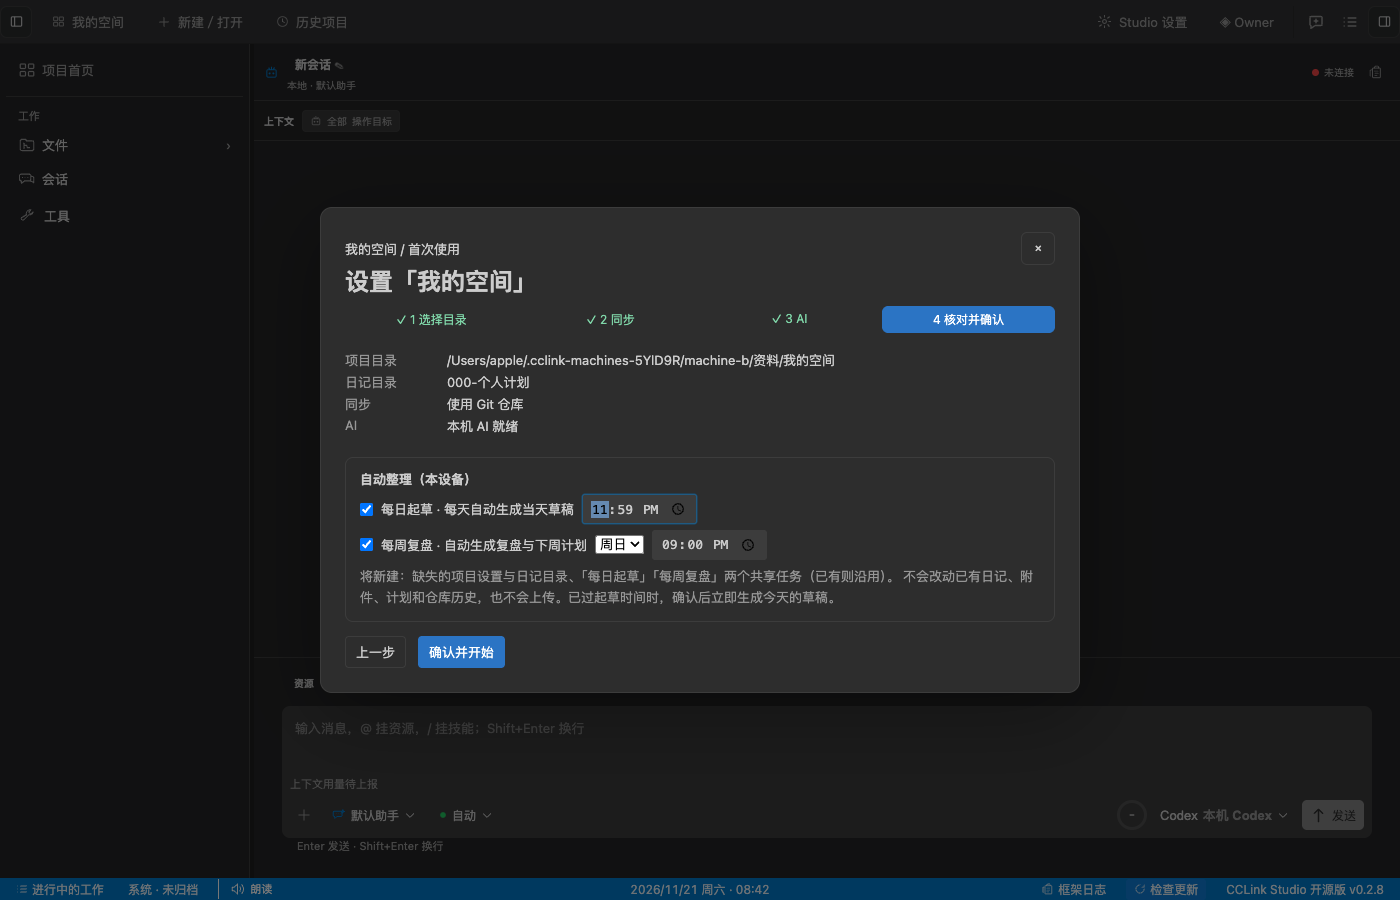
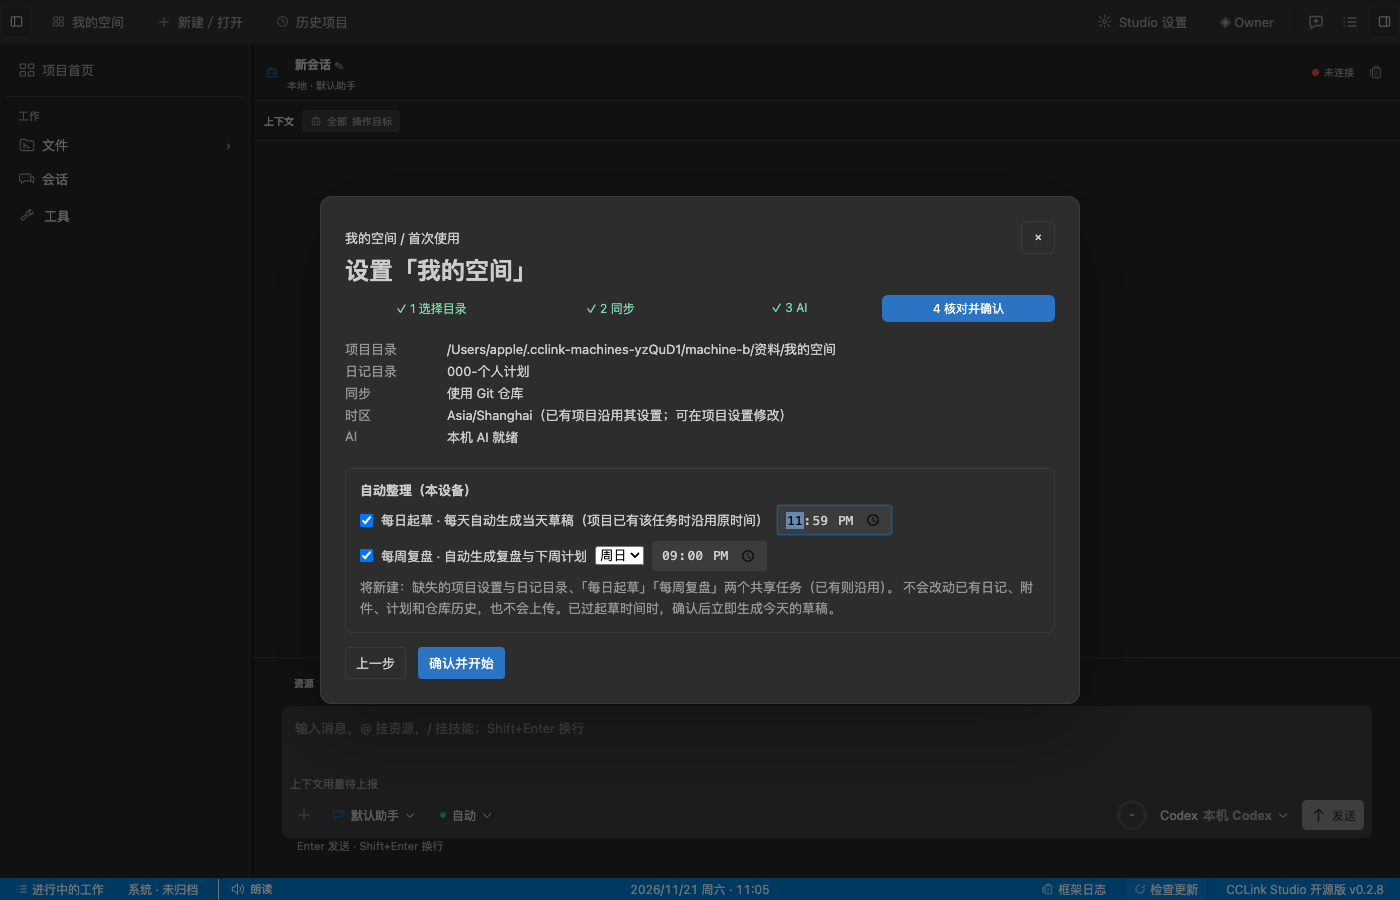
我的空间第二版自查：向导完成前不关闭、SSH 同步隔离、改动快照完整性等修复

diff --git a/src/renderer/src/features/workspace-open/PersonalDiaryHome.tsx b/src/renderer/src/features/workspace-open/PersonalDiaryHome.tsx
@@ -112,6 +112,16 @@ export function PersonalDiaryHome(): React.ReactElement {
   const [revision, setRevision] = useState(0)
   const [clock, setClock] = useState(() => Date.now())
   const [month, setMonth] = useState('')
+  const [aiProblem, setAiProblem] = useState('')
+  useEffect(() => {
+    void window.cclinkStudio.agent
+      .getCapabilities()
+      .then((items) => {
+        const backend = items.find((item) => item.name === 'agent-backend')
+        setAiProblem(backend && backend.state !== 'ready' ? backend.reason || backend.state : '')
+      })
+      .catch(() => {})
+  }, [revision])
   useEffect(() => {
     const timer = window.setInterval(() => setClock(Date.now()), 60000)
     return () => window.clearInterval(timer)
@@ -122,6 +132,8 @@ export function PersonalDiaryHome(): React.ReactElement {
   useEffect(() => {
     let alive = true
     setBusy(true)
+    // Wait for this project's settings: a missing or stale snapshot must not look "unset".
+    if (ownerPath && config?.workspacePath !== ownerPath) return
     void (async () => {
       const [items, snapshot] = await Promise.all([
         window.cclinkStudio.workspaceState.listLocalWorkspaces(),
@@ -166,7 +178,7 @@ export function PersonalDiaryHome(): React.ReactElement {
     return () => {
       alive = false
     }
-  }, [ownerPath, config?.revision])
+  }, [ownerPath, config?.revision, config?.workspacePath])
   useEffect(() => {
     if (!source) return
     let alive = true
@@ -277,7 +289,10 @@ export function PersonalDiaryHome(): React.ReactElement {
     dayKey(daily.latestRun.scheduledFor ?? daily.latestRun.createdAt) === todayKey
       ? daily.latestRun
       : undefined
-  const weeklyPlans = files.plans.filter((file) => file.path.includes('/周计划/'))
+  // Mixed naming (第47周.md, 2026-11-23-周复盘.md): newest by modification time.
+  const weeklyPlans = files.plans
+    .filter((file) => file.path.includes('/周计划/'))
+    .sort((a, b) => b.modifiedAt - a.modifiedAt)
   const longTermPlans = files.plans.filter(
     (file) => source && file.path === `${source.workspacePath}/${source.directory}/${file.name}`,
   )
@@ -410,6 +425,14 @@ export function PersonalDiaryHome(): React.ReactElement {
               {file.name}
             </button>
           ))}
+        </div>
+      )}
+      {!today.length && source && aiProblem && (
+        <div className="diary-card" role="alert">
+          <b>本机 AI 不可用，今天的草稿无法自动生成</b>
+          <p className="muted">
+            {aiProblem}。请在 Studio 设置的 Agent 中修复；修复后会按时起草，也可现在起草。
+          </p>
         </div>
       )}
       {!today.length && source && (

diff --git a/src/main/workspace/diary-change-tracker.ts b/src/main/workspace/diary-change-tracker.ts
@@ -10,9 +10,10 @@ import { readWorkspaceSettings } from './workspace-settings-files'
 
 const MAX_FILES = 5000
 const MAX_FILE_BYTES = 512 * 1024
+const MAX_TOTAL_BYTES = 32 * 1024 * 1024
 const MAX_REPORTS = 30
 
-type Snapshot = Map<string, { hash: string; content: string }>
+type Snapshot = Map<string, { hash: string; content: string }> & { complete?: boolean }
 interface StoredReport extends DiaryChangeReport {
   /** Exact contents needed to undo; never sent to the renderer. */
   restore: Array<{ path: string; before: string | null; afterHash: string | null }>
@@ -55,6 +56,8 @@ export class DiaryChangeTracker {
     if (!run) return null
     this.active.delete(input.runId)
     const after = await snapshot(run.workspacePath)
+    // A bounded snapshot cannot tell "deleted" from "not scanned": report nothing then.
+    if (!run.before.complete || !after.complete) return null
     const files: DiaryChangeReport['files'] = []
     const restore: StoredReport['restore'] = []
     for (const path of new Set([...run.before.keys(), ...after.keys()])) {
@@ -155,15 +158,25 @@ function publicReport(report: StoredReport): DiaryChangeReport {
 
 async function snapshot(root: string): Promise<Snapshot> {
   const result: Snapshot = new Map()
+  result.complete = true
+  let total = 0
   const walk = async (dir: string): Promise<void> => {
-    if (result.size >= MAX_FILES) return
+    if (result.size >= MAX_FILES || total > MAX_TOTAL_BYTES) {
+      result.complete = false
+      return
+    }
     for (const entry of await readdir(dir, { withFileTypes: true }).catch(() => [])) {
       if (entry.name.startsWith('.') || entry.name === 'node_modules') continue
       const path = join(dir, entry.name)
       if (entry.isDirectory()) await walk(path)
       else if (entry.isFile() && entry.name.toLowerCase().endsWith('.md')) {
         const info = await lstat(path).catch(() => null)
-        if (!info || info.size > MAX_FILE_BYTES) continue
+        if (!info) continue
+        if (info.size > MAX_FILE_BYTES) {
+          result.complete = false
+          continue
+        }
+        total += info.size
         const content = await readFile(path, 'utf8').catch(() => null)
         if (content === null) continue
         result.set(relative(root, path).split(sep).join('/'), { hash: hash(content), content })

diff --git a/src/renderer/src/features/workspace-open/DiarySetupWizard.tsx b/src/renderer/src/features/workspace-open/DiarySetupWizard.tsx
@@ -132,7 +132,8 @@ export function DiarySetupWizard({
         fixed = await ws.confirmDiaryRoot(owner, target)
       } else
         fixed = await ws.initializePersonalSpace(mode === 'default' && !preview ? null : preview)
-      useFixedSpacesStore.setState({ spaces: fixed, firstUse: false })
+      // Stay open until tasks and today's draft are set up, so any failure is shown here.
+      useFixedSpacesStore.setState({ spaces: fixed })
       const root = fixed.personal!.workspacePath
       const settings = (await ws.getSettings(root)).settings
       const directory = settings.diary?.directory ?? preview?.directory ?? '个人计划'
@@ -321,6 +322,8 @@ export function DiarySetupWizard({
             <dd>{preview?.directory ?? '个人计划'}</dd>
             <dt>同步</dt>
             <dd>{sync === 'later' ? '稍后连接' : '使用 Git 仓库'}</dd>
+            <dt>时区</dt>
+            <dd>{defaultDiaryTimezone}（已有项目沿用其设置；可在项目设置修改）</dd>
             <dt>AI</dt>
             <dd>{ai?.state === 'ready' ? '本机 AI 就绪' : '—'}</dd>
           </dl>
@@ -334,7 +337,7 @@ export function DiarySetupWizard({
                   setChoice({ ...choice, daily: { ...choice.daily, enable: e.target.checked } })
                 }
               />
-              每日起草 · 每天自动生成当天草稿
+              每日起草 · 每天自动生成当天草稿（项目已有该任务时沿用原时间）
               <input
                 aria-label="每日起草时间"
                 type="time"

diff --git a/src/renderer/src/bootstrap/use-workspace-bootstrap.ts b/src/renderer/src/bootstrap/use-workspace-bootstrap.ts
@@ -101,8 +101,7 @@ export function useWorkspaceBootstrap(): boolean {
       await window.cclinkStudio.workspaceState
         .ensurePersonalSpace()
         .then((spaces) => {
-          // A new user starts at first use; nothing is created until confirmation.
-          useFixedSpacesStore.setState({ spaces, firstUse: !spaces.personal })
+          useFixedSpacesStore.setState({ spaces })
         })
         .catch(async (error) => {
           console.warn('[FixedSpaces] 个人空间暂不可用，保留其他入口', error)
@@ -110,10 +109,20 @@ export function useWorkspaceBootstrap(): boolean {
           const spaces = await window.cclinkStudio.workspaceState.getFixedSpaces().catch(() => null)
           if (spaces?.personal)
             useFixedSpacesStore.setState({
+              spaces,
               relocate: { previousPath: spaces.personal.workspacePath, error: String(error) },
             })
         })
       const result = await runWorkspaceBootstrapOnce()
+      // A new user with nothing to restore starts at first use; nothing exists until confirmed.
+      const fixedState = useFixedSpacesStore.getState()
+      if (
+        fixedState.spaces &&
+        !fixedState.spaces.personal &&
+        !fixedState.relocate &&
+        !result.workspacePath
+      )
+        useFixedSpacesStore.setState({ firstUse: true })
       if (
         result.canPersistRuntime &&
         result.workspacePath === useFixedSpacesStore.getState().spaces?.personal?.workspacePath &&

diff --git a/src/main/workspace/diary-change-tracker.test.ts b/src/main/workspace/diary-change-tracker.test.ts
@@ -72,6 +72,15 @@ describe('diary change reports', () => {
     expect(await tracker.afterRun({ runId: 'r2' })).toBeNull()
   })
 
+  it('reports nothing when the snapshot is bounded, instead of claiming deletions', async () => {
+    const project = join(root, 'project')
+    await writeFile(join(project, '个人计划/大文件.md'), 'x'.repeat(600 * 1024))
+    const tracker = new DiaryChangeTracker(join(root, 'reports.json'))
+    await tracker.beforeRun({ conversationId: 'c', runId: 'big', workspacePath: project })
+    await writeFile(join(project, '个人计划/2026/11/1121_周六.md'), '改动')
+    expect(await tracker.afterRun({ runId: 'big' })).toBeNull()
+  })
+
   it('keeps context around changes', () => {
     expect(diffLines('a\nb\nc\nd\ne\nf', 'a\nb\nc\nX\ne\nf').diff).toEqual([
       '  b',

diff --git a/src/renderer/src/features/workspace-open/workspace-open-controller.ts b/src/renderer/src/features/workspace-open/workspace-open-controller.ts
@@ -33,6 +33,12 @@ export async function openDefaultWorkspace(): Promise<LocalWorkspaceRef | null> 
   const generation = beginWorkspaceRuntimeTransition()
   const result = await window.cclinkStudio.workspaceState.ensureDefaultWorkspace()
   if (!isWorkspaceRuntimeTransitionCurrent(generation)) return null
+  if (result.success && !result.workspacePath) {
+    // My Space is not set up yet: show first use instead of creating a folder (D2).
+    const { useFixedSpacesStore } = await import('./fixed-spaces-store')
+    useFixedSpacesStore.setState({ firstUse: true })
+    return null
+  }
   if (!result.success || !result.workspacePath)
     throw new Error(result.error || '默认工作空间不可用')
   const ref: LocalWorkspaceRef = { kind: 'local', path: result.workspacePath }

diff --git a/src/renderer/src/components/workbench/MarkdownEditor.tsx b/src/renderer/src/components/workbench/MarkdownEditor.tsx
@@ -624,6 +624,8 @@ export function MarkdownEditor({ filePath, tabId }: MarkdownEditorProps): React.
   const switchedToSourceRef = useRef(false)
   useEffect(() => {
     if (!parseBlockedReason || switchedToSourceRef.current) return
+    // Scoped to diary projects; other Studio documents keep their protected preview.
+    if (useWorkspaceStore.getState().settingsSnapshot?.settings.type !== 'diary') return
     const tab = useTabStore.getState().tabs.find((item) => item.id === tabId)
     if (!tab) return
     switchedToSourceRef.current = true

diff --git a/src/main/git/git-fast-forward.ts b/src/main/git/git-fast-forward.ts
@@ -12,6 +12,11 @@ const safeFlags = [
   'protocol.ext.allow=never',
   '-c',
   'submodule.recurse=false',
+  // No SSH agent, system credential store or default identity: remotes needing a key fail here.
+  '-c',
+  `core.sshCommand=ssh -F ${nullPath} -o BatchMode=yes -o IdentityAgent=none -o IdentitiesOnly=yes -o IdentityFile=${nullPath} -o IgnoreUnknown=UseKeychain -o UseKeychain=no`,
+  '-c',
+  'credential.helper=',
 ]
 
 export interface FastForwardResult {

diff --git a/docs/design/personal-diary-space-2026-11-17/implementation-plan.md b/docs/design/personal-diary-space-2026-11-17/implementation-plan.md
@@ -99,6 +99,23 @@
 - AI 查阅全部日记依赖会话以项目为工作区，未验收引用可点击打开。
 - 会话「保存到项目」、上传时标注 AI 修改来源、冲突时 AI 合并均未实现。
 
+## 2026-11-22 第二版自查修复
+
+对照产品逻辑第二版逐项自查，修复以下问题；修复后 `pnpm verify` 通过（4104 项单测），真实应用复跑 `diary-v2-first-use-smoke`、`diary-v2-daily-smoke`、`diary-relocation-smoke`、`diary-git-machines-smoke` 全部通过；`diary-tasks-smoke` 未复跑（相关代码未变）。
+
+| 问题 | 类型 | 修复 |
+| --- | --- | --- |
+| 首次使用向导在确认后、内置任务启用完成前就关闭，后续失败不可见；换机验收偶发每周复盘未启用 | 代码缺陷 | 向导保持打开直至任务与当天草稿处理完成 |
+| 命令「打开我的空间」在未设置时报“默认工作空间不可用” | 与文档不符（D2） | 改为进入首次使用 |
+| 起草前同步的 SSH 拉取可能经由 ssh-agent 或系统凭证存储 | 违反 NO_SYSTEM_KEYCHAIN | 固定隔离的 ssh 命令与空凭证助手，需要密钥的远端直接失败 |
+| 改动快照触及文件上限时，未扫描文件会被误报为删除；无总量上限 | 代码缺陷 | 快照不完整则不生成报告；增加 32 MB 总量上限 |
+| 「本周计划」按文件名排序，旧命名会压过新生成的计划 | 代码缺陷 | 按修改时间取最新 |
+| 首次使用每次启动都弹出，即使用户正在使用其他项目 | 与文档不符（入口） | 仅在没有可恢复项目且未设置时自动弹出；失联时只显示重新定位 |
+| 含原始 HTML 自动切源码作用于全部 Markdown | 超出范围 | 仅日记项目生效，其他文档保持原保护预览 |
+| 今天页在 AI 不可用时没有提示 | 与文档不符（§6） | 尚无日记且 AI 不可用时显示原因与修复入口 |
+| 核对页未显示时区；项目已有内置任务时所选时间被忽略却无说明 | 与文档不符（§5） | 显示时区，注明已有任务沿用原时间 |
+| 项目设置尚未加载时，已设置的我的空间会短暂显示为首次使用 | 代码缺陷 | 等待对应项目设置加载后再判断 |
+
 ## 2026-11-21 按第二版设计核对代码
 
 依据 [产品逻辑第二版](product-logic.md) 与 [第二版效果图](mockups-v2.html)，核对分支 `codex/diary-first-use`（`0967ba59`）。「有」指真实应用中已验收；「部分」指有底层能力但产品行为不符；「无」指未实现。
